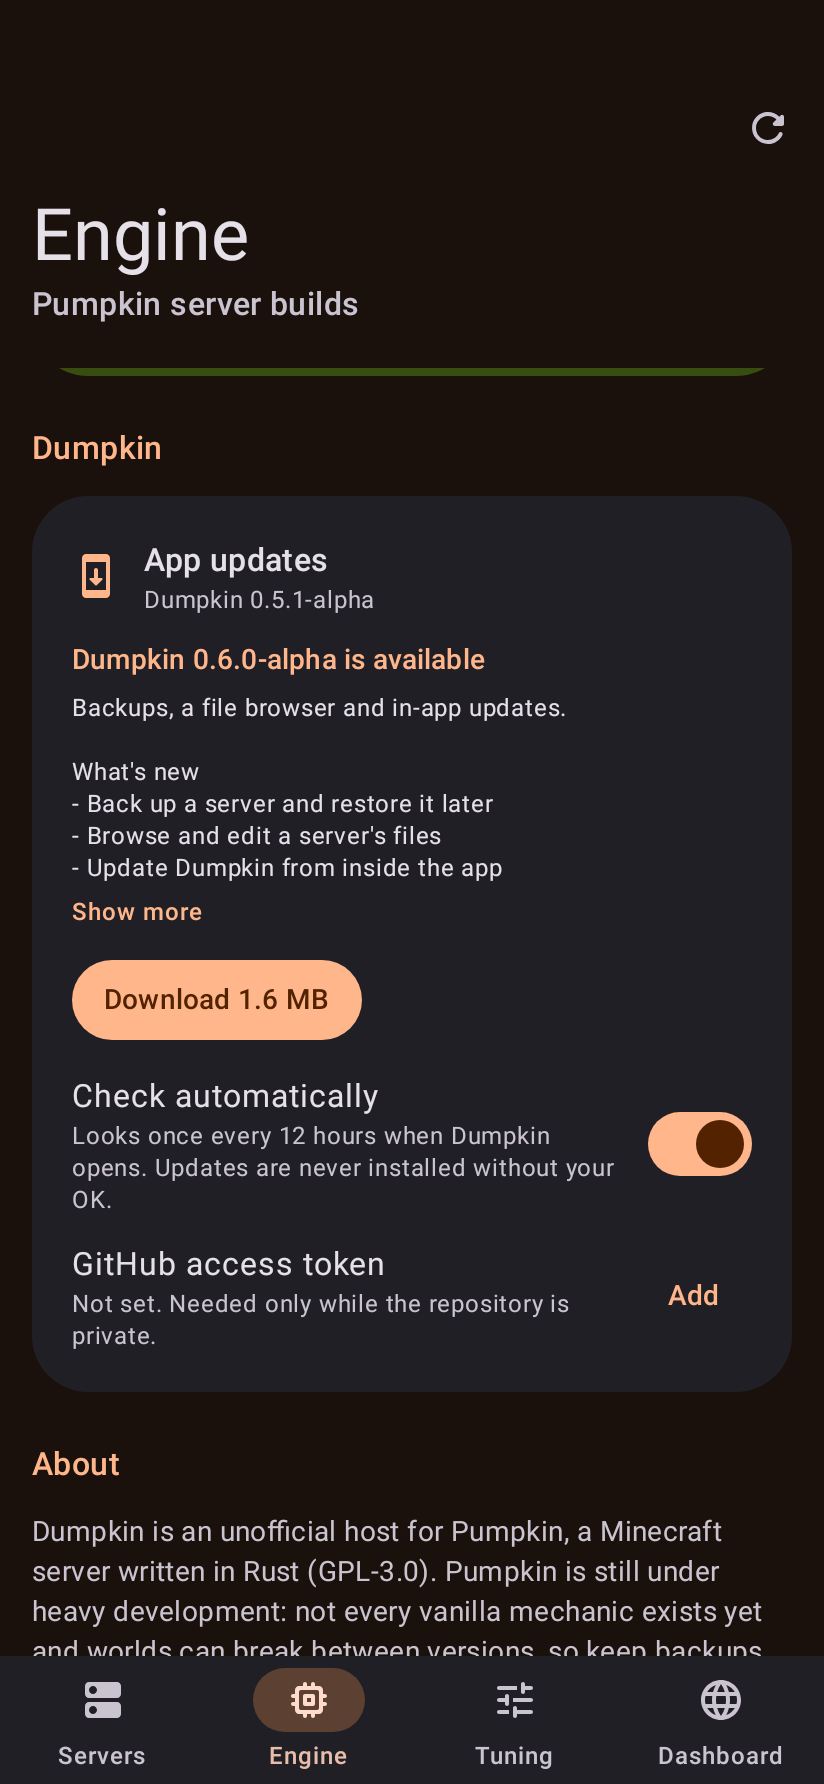
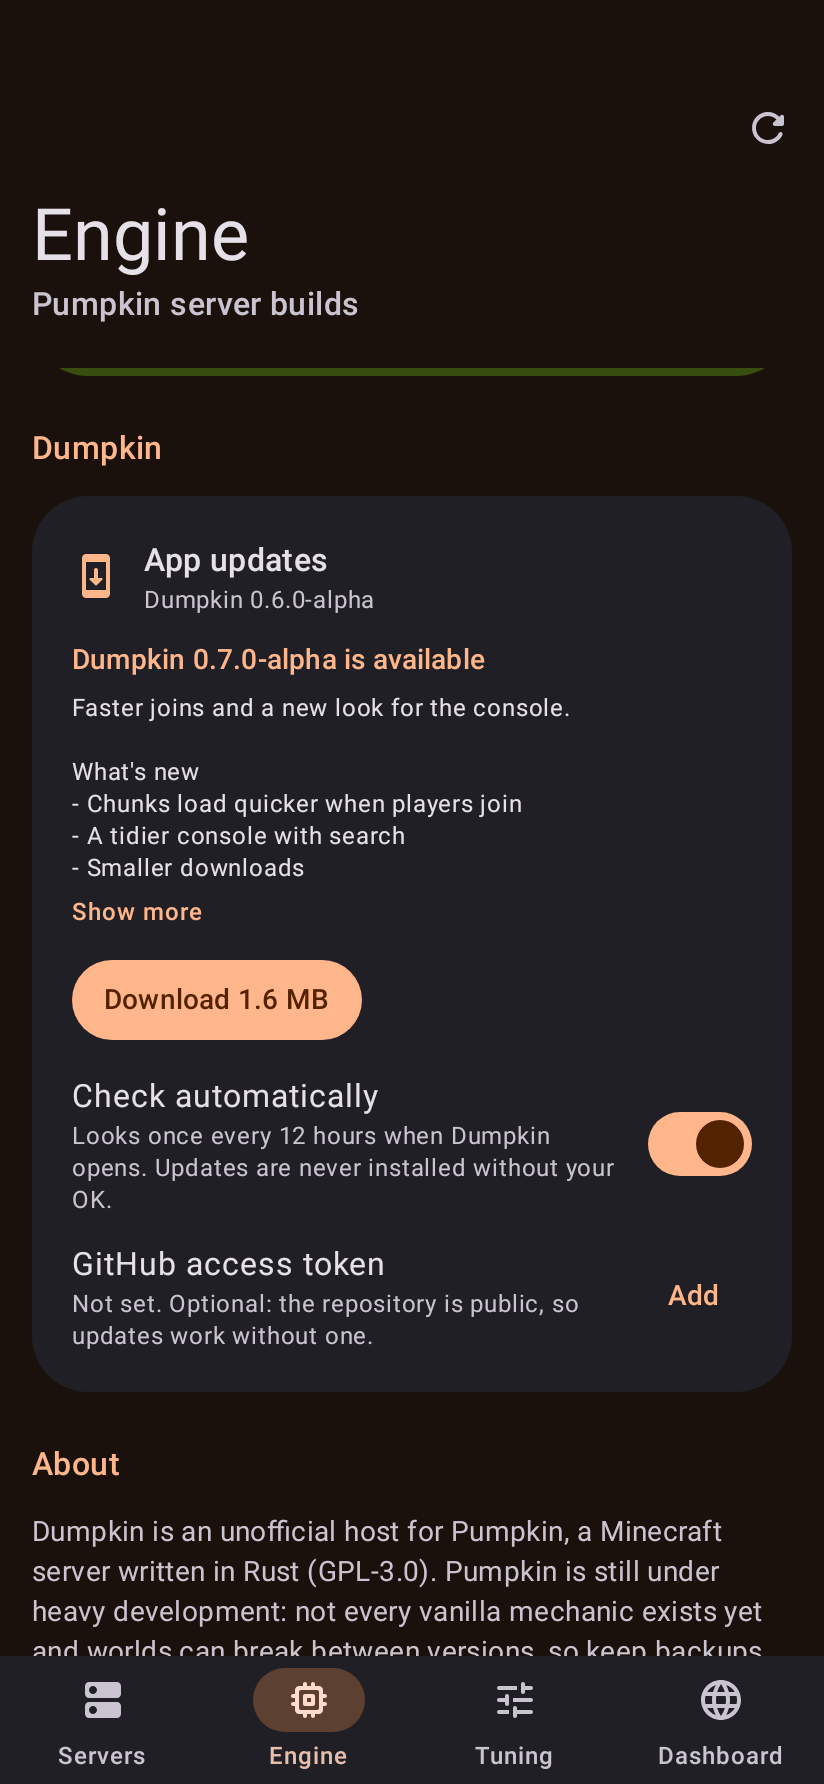
Say that update checks need no token now that the repository is public
The README and the update card now describe the GitHub access token as
optional (it only helps with GitHub's anonymous rate limit, or if the
repository goes private again). The sample update in the screenshots is
now 0.7.0 so it differs from the installed version, and the two update
screenshots are retaken.

diff --git a/app/src/main/java/app/dumpkin/ui/UpdateCard.kt b/app/src/main/java/app/dumpkin/ui/UpdateCard.kt
@@ -160,7 +160,7 @@ fun UpdateCard(modifier: Modifier = Modifier) {
                 Column(Modifier.weight(1f)) {
                     Text("GitHub access token", style = MaterialTheme.typography.bodyLarge)
                     Text(
-                        if (hasToken) "Set. Needed only while the repository is private." else "Not set. Needed only while the repository is private.",
+                        if (hasToken) "Set. Optional: the repository is public." else "Not set. Optional: the repository is public, so updates work without one.",
                         style = MaterialTheme.typography.bodySmall, color = MaterialTheme.colorScheme.onSurfaceVariant,
                     )
                 }
@@ -216,9 +216,10 @@ private fun TokenDialog(hasToken: Boolean, onDismiss: () -> Unit, onSave: (Strin
         text = {
             Column(verticalArrangement = Arrangement.spacedBy(12.dp)) {
                 Text(
-                    "While the Dumpkin repository is private, GitHub only shows its releases to someone signed in. " +
-                        "Create a fine-grained personal access token with read-only access to \"Contents\" for the repository, and paste it here. " +
-                        "It is stored only on this phone and sent only to api.github.com. Leave this empty once the repository is public.",
+                    "You don't need this: the Dumpkin repository is public, so updates work without a token. " +
+                        "Add one only to get past GitHub's limit on anonymous requests, or if the repository is ever made private again. " +
+                        "Use a fine-grained personal access token with read-only access to \"Contents\" for the repository. " +
+                        "It is stored only on this phone and sent only to api.github.com.",
                     style = MaterialTheme.typography.bodySmall,
                 )
                 OutlinedTextField(

diff --git a/app/src/test/java/app/dumpkin/ui/Screenshots.kt b/app/src/test/java/app/dumpkin/ui/Screenshots.kt
@@ -159,11 +159,11 @@ class Screenshots {
     /** Pretends GitHub has a newer release, so the update card and banner can be shown. */
     private fun offerUpdate() {
         val release = ReleaseInfo(
-            tag = "v0.6.0-alpha", version = "0.6.0-alpha", title = "Dumpkin 0.6.0 Alpha",
-            notes = "**Backups, a file browser and in-app updates.**\n\n### What's new\n- Back up a server and restore it later\n" +
-                "- Browse and edit a server's files\n- Update Dumpkin from inside the app",
-            assetName = "Dumpkin-0.6.0-alpha.apk", assetApiUrl = "https://api.github.com/x", downloadUrl = "https://github.com/x",
-            size = 1_650_000, sha256 = null, publishedAt = "2026-11-20T10:00:00Z", pageUrl = "https://github.com/x",
+            tag = "v0.7.0-alpha", version = "0.7.0-alpha", title = "Dumpkin 0.7.0 Alpha",
+            notes = "**Faster joins and a new look for the console.**\n\n### What's new\n- Chunks load quicker when players join\n" +
+                "- A tidier console with search\n- Smaller downloads",
+            assetName = "Dumpkin-0.7.0-alpha.apk", assetApiUrl = "https://api.github.com/x", downloadUrl = "https://github.com/x",
+            size = 1_650_000, sha256 = null, publishedAt = "2026-12-20T10:00:00Z", pageUrl = "https://github.com/x",
         )
         getField<MutableStateFlow<UpdateState>>(app().updates, "_state").value = UpdateState.Available(release)
     }

diff --git a/README.md b/README.md
@@ -231,11 +231,11 @@ Then Android's own installer takes over and asks for your confirmation: nothing 
 Android asks you to allow Dumpkin to install apps. Installing restarts the app, which stops running servers, so the card warns
 you if any are running. Updates only come from GitHub over HTTPS (a redirect anywhere else is refused).
 
-> [!NOTE]
-> **While the repository is private**, GitHub only shows its releases to someone signed in, so the check fails with "HTTP 404"
-> until you add a **GitHub access token** (the card has a button). Create a fine-grained personal access token with read-only
-> access to the repository's *Contents*, and paste it in. It is stored only on the phone and sent only to `api.github.com`,
-> never to the download host. Once the repository is public no token is needed.
+The repository is public, so **no token is needed**: the check works out of the box. The card still has an optional
+**GitHub access token** field for two cases: GitHub limits anonymous requests (about 60 an hour, plenty for one check every
+12 hours, but shared Wi-Fi networks can use them up), and a token also lets the check work if the repository is ever made
+private again (the check then fails with "HTTP 404"). Use a fine-grained personal access token with read-only access to the
+repository's *Contents*. It is stored only on the phone and sent only to `api.github.com`, never to the download host.
 
 ## Engine tab
 
